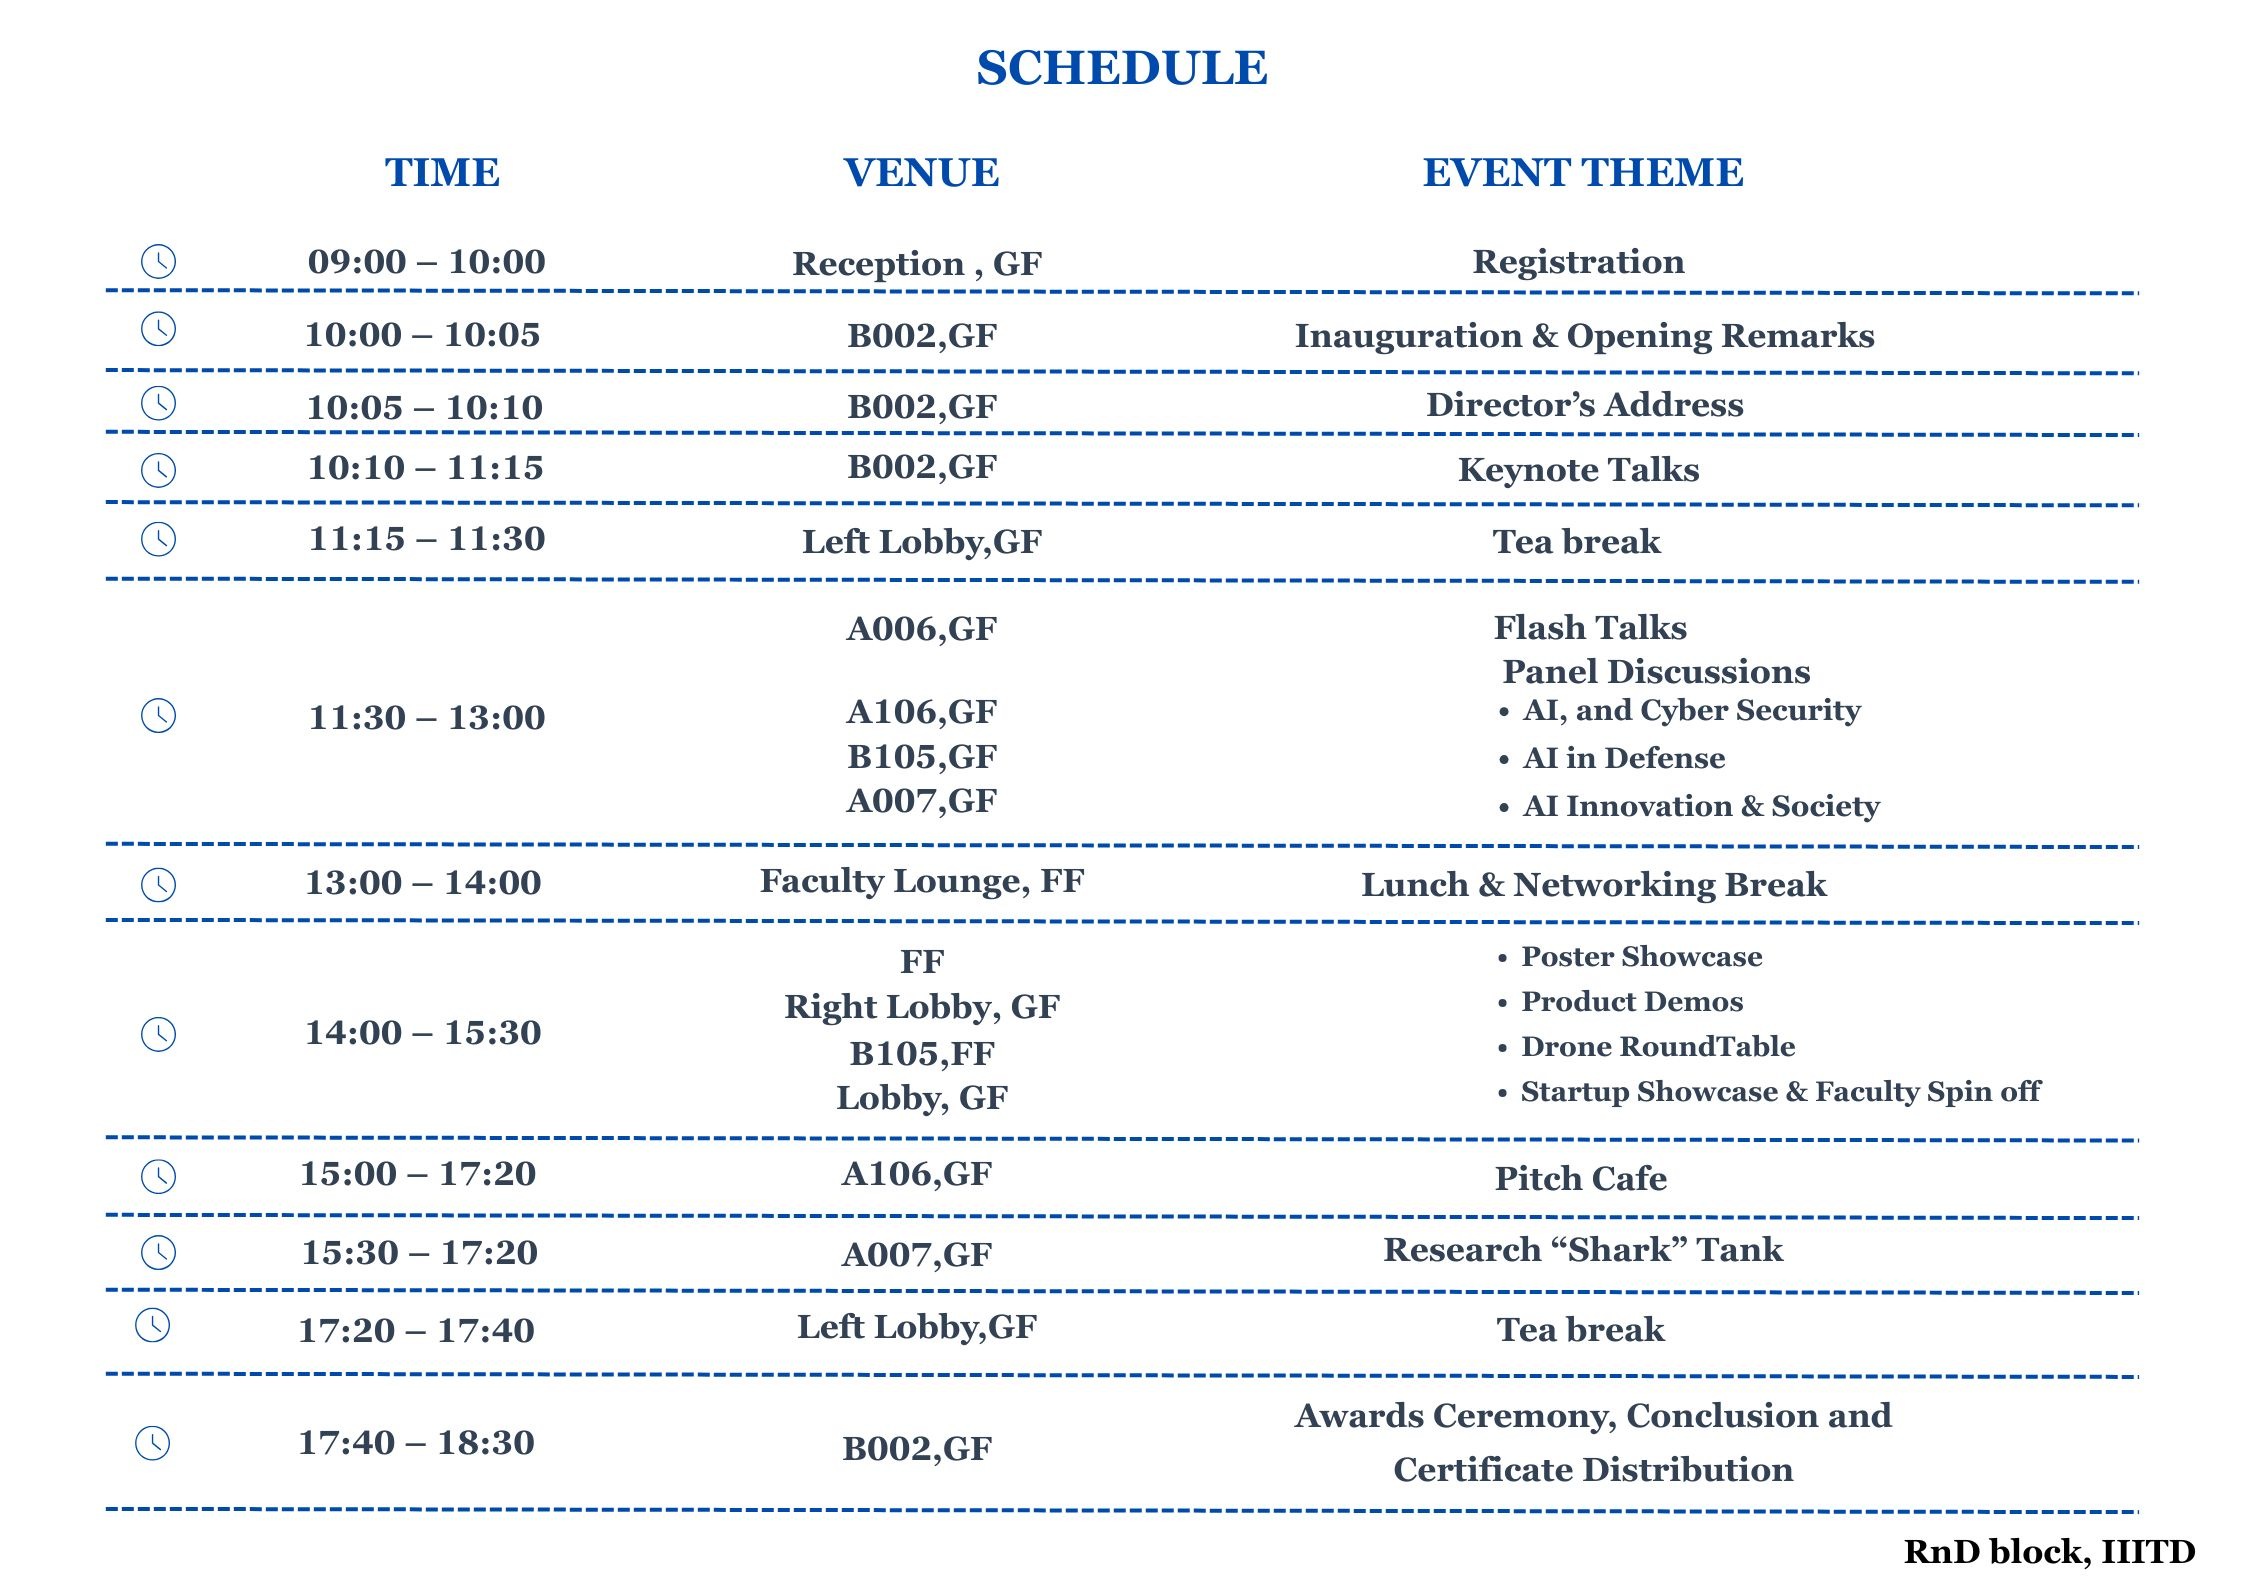
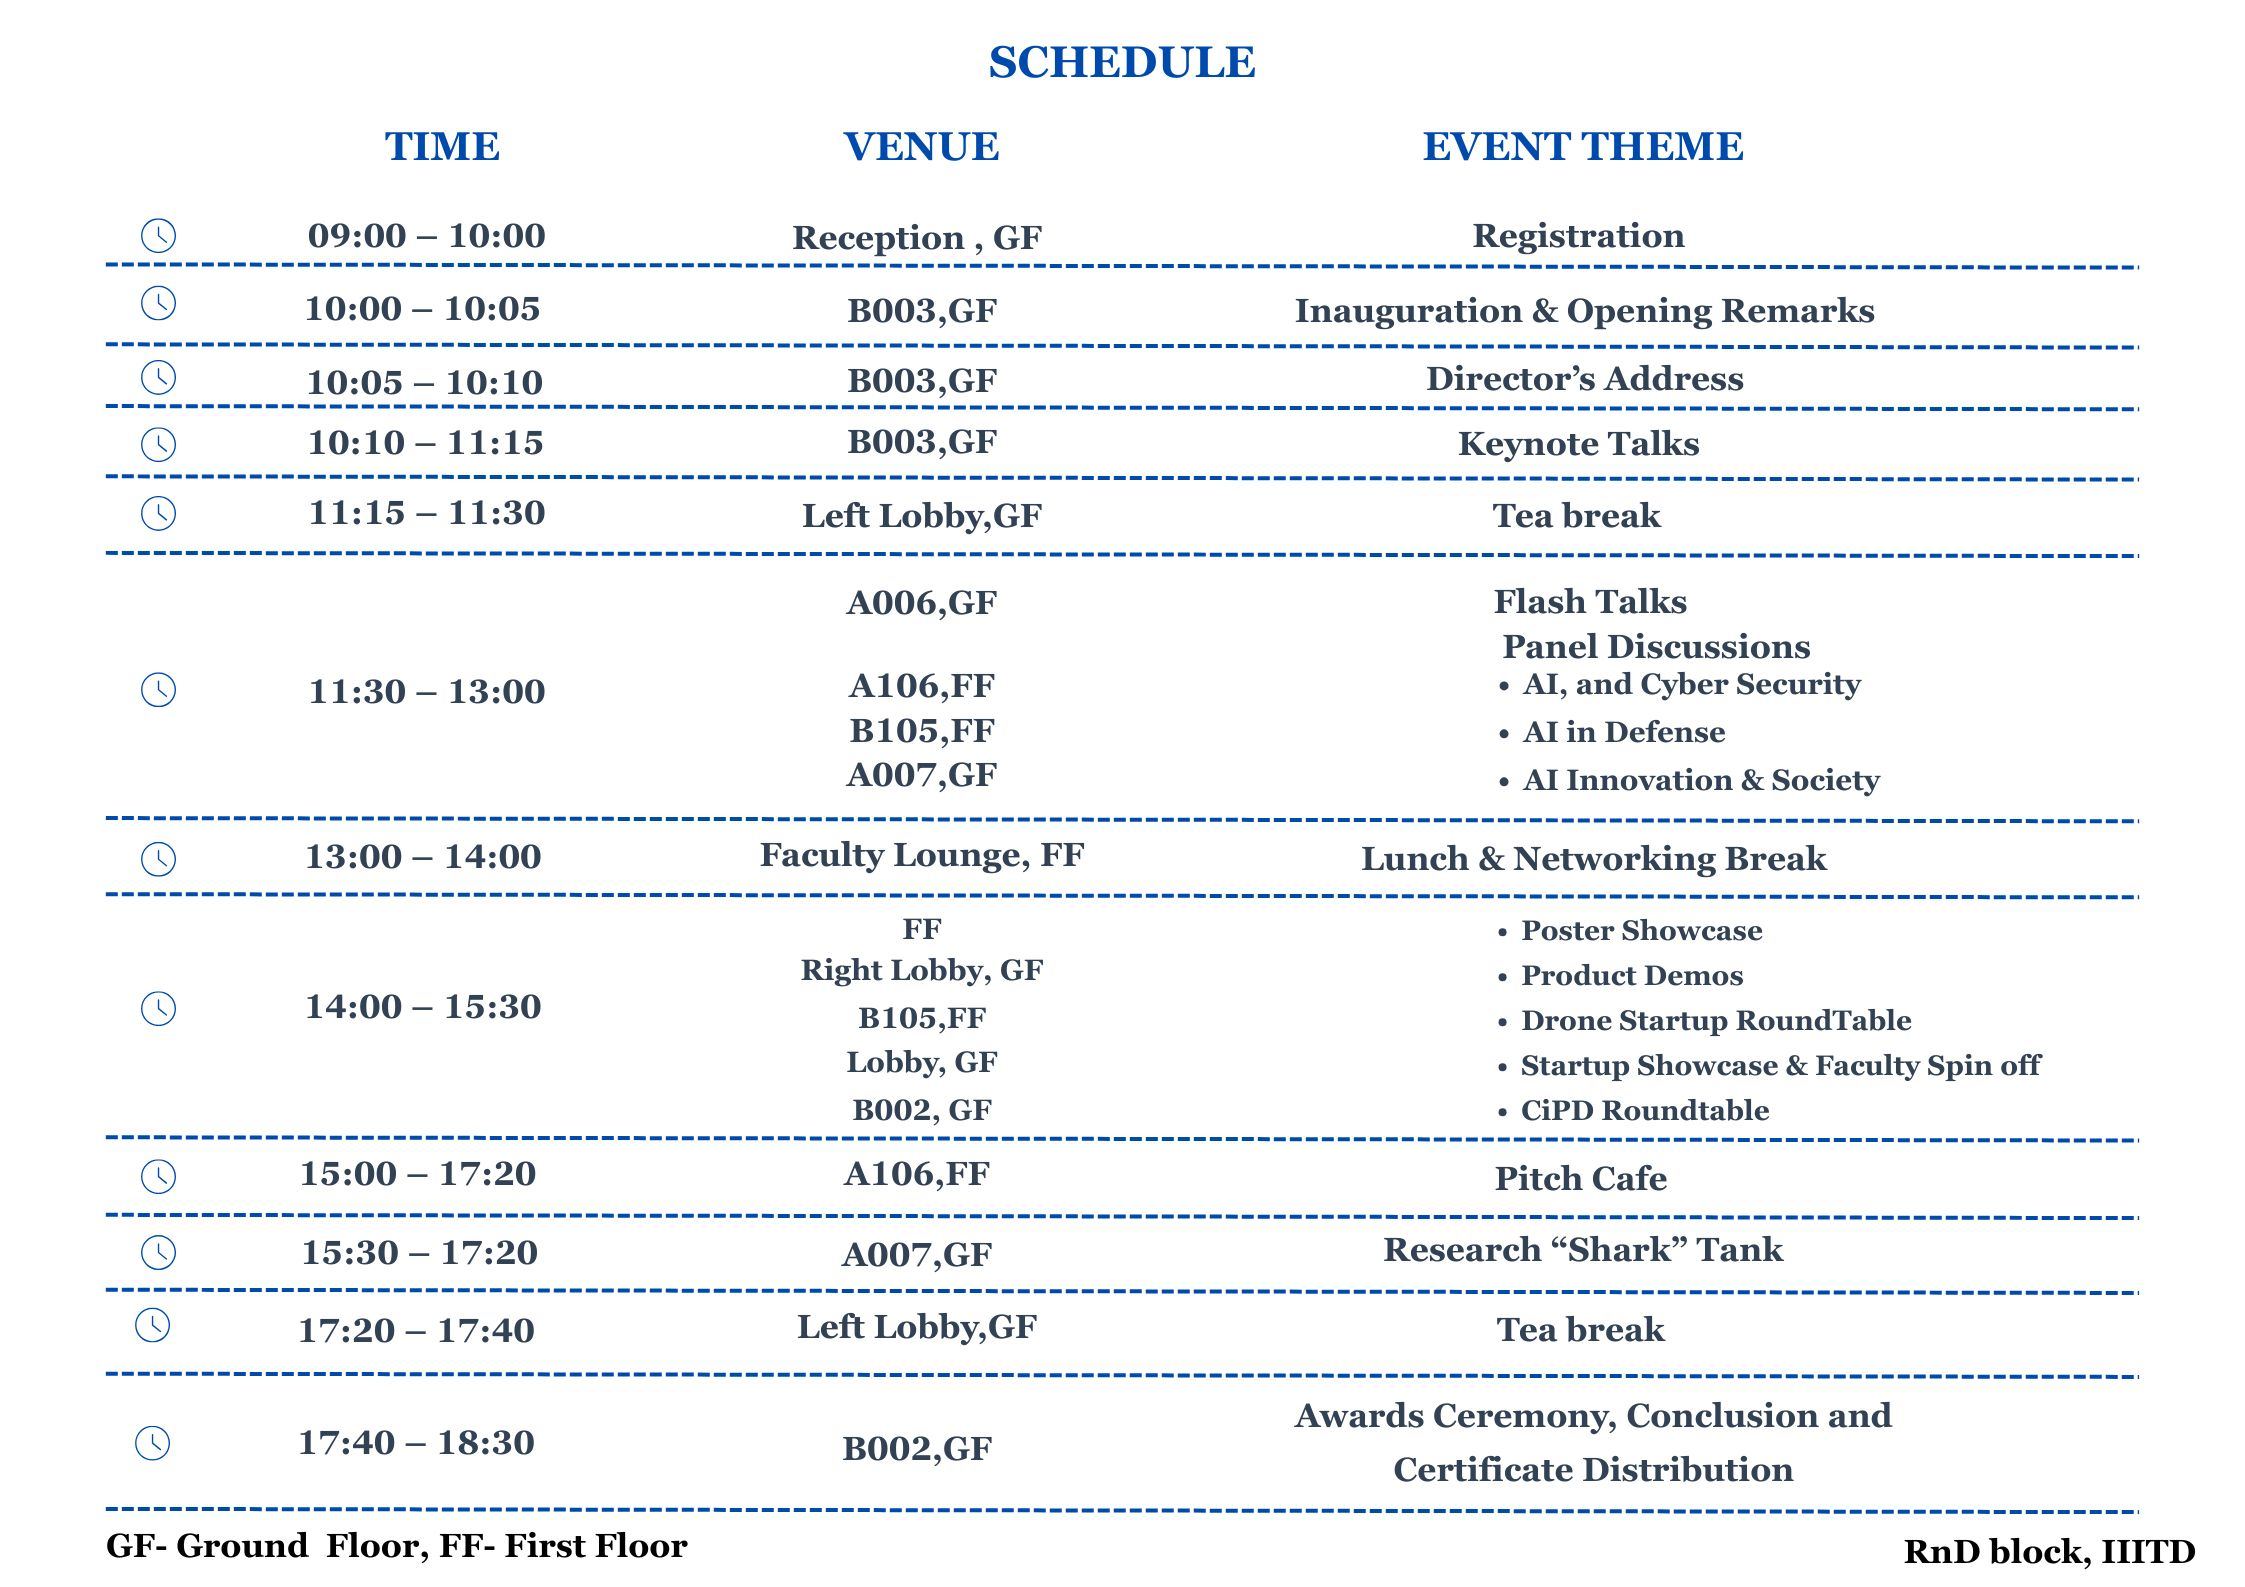
showcase and schedule updated

diff --git a/src/components/Schedule.tsx b/src/components/Schedule.tsx
@@ -1,162 +1,13 @@
-import { Clock } from "lucide-react";
-
 const EventSchedule = () => {
-  const scheduleData = [
-    {
-      time: "09:00 – 10:00",
-      event: "Registration",
-    },
-    {
-      time: "10:00 – 10:05",
-      event: "Inauguration & Opening Remarks",
-    },
-    {
-      time: "10:05 – 10:10",
-      event: "Director's Address",
-    },
-    {
-      time: "10:10 – 11:15",
-      event: "Keynote Talks",
-    },
-    {
-      time: "11:15 – 11:30",
-      event: "Tea break",
-    },
-    {
-      time: "11:30 – 13:00",
-      event: "Flash Talks",
-      panels: ["AI and Cyber Security", "AI in Defense", "AI Innovation & Society"],
-    },
-    {
-      time: "13:00 – 14:00",
-      event: "Lunch & Networking Break",
-    },
-    {
-      time: "14:00 – 15:30",
-      event: "Multiple Sessions",
-      sessions: ["Poster Showcase", "Product Demos", "Startup Showcase"],
-      additional: ["Drone RoundTable", "Fireside Chat - AI & Product Development"],
-    },
-    {
-      time: "15:00 – 17:20",
-      event: "Pitch Cafe",
-    },
-    {
-      time: "15:30 – 17:20",
-      event: "Research \"Shark\" Tank",
-    },
-    {
-      time: "17:20 – 17:40",
-      event: "Tea break",
-    },
-    {
-      time: "17:40 – 18:30",
-      event: "Awards Ceremony, Conclusion and Certificate Distribution",
-    },
-  ];
-
   return (
-    <div className="max-w-6xl mx-auto p-6 bg-gray-50 font-sans">
-      {/* Header */}
-      <div className="text-center mb-12">
-        <h1 className="text-4xl font-light text-gray-600 tracking-widest uppercase">
-          Schedule
-        </h1>
+    <section id="showcases" className="pb-20 lg:pb-32 bg-white/50 backdrop-blur-sm relative z-10">
+      <div className="max-w-7xl mx-auto px-4 sm:px-6 lg:px-8">
+        {/* Schedule Preview */}
+        <div id="schedule" className="bg-white/90 backdrop-blur-sm rounded-3xl p-8 lg:p-12 shadow-xl border border-slate-200/50">
+          <img src = "/riise2025/schedule.jpg" />
+        </div>
       </div>
-
-      {/* Schedule Table */}
-      <table className="w-full border-collapse bg-white rounded-xl shadow-md overflow-hidden">
-        <thead className="bg-gray-600 text-white">
-          <tr>
-            <th className="w-52 py-6 px-8 text-left text-lg font-semibold uppercase tracking-wide">
-              Time
-            </th>
-            <th className="py-6 px-8 text-center text-lg font-semibold uppercase tracking-wide">
-              Event Details
-            </th>
-          </tr>
-        </thead>
-        <tbody>
-          {scheduleData.map((item, index) => (
-            <tr
-              key={index}
-              className="border-b-2 border-dashed border-gray-300 hover:bg-gray-100 last:border-none transition-colors"
-            >
-              {/* Time Cell */}
-              <td className="py-6 px-8 font-semibold text-gray-800 align-top flex items-center">
-                <Clock size={18} className="text-gray-400 mr-3" />
-                <span className="text-base">{item.time}</span>
-              </td>
-
-              {/* Event Cell */}
-              <td className="py-6 px-8 align-top">
-                <div
-                  className={`text-lg font-semibold mb-2 ${
-                    item.event.toLowerCase().includes("tea break") ||
-                    item.event.toLowerCase().includes("lunch")
-                      ? "text-green-500"
-                      : "text-gray-800"
-                  }`}
-                >
-                  {item.event}
-                </div>
-
-                {/* Panels */}
-                {item.panels && (
-                  <div className="mt-3">
-                    <div className="text-sm font-semibold text-gray-500 mb-2">
-                      Panel Discussions
-                    </div>
-                    <ul className="list-none space-y-1">
-                      {item.panels.map((panel, panelIndex) => (
-                        <li
-                          key={panelIndex}
-                          className="pl-5 relative text-gray-500 before:content-['•'] before:absolute before:left-0 before:text-blue-500 before:font-bold"
-                        >
-                          {panel}
-                        </li>
-                      ))}
-                    </ul>
-                  </div>
-                )}
-
-                {/* Sessions */}
-                {item.sessions && (
-                  <div className="grid grid-cols-1 md:grid-cols-2 gap-6 mt-4">
-                    <div>
-                      <ul className="list-none space-y-1">
-                        {item.sessions.map((session, sessionIndex) => (
-                          <li
-                            key={sessionIndex}
-                            className="pl-5 relative text-gray-500 text-sm before:content-['•'] before:absolute before:left-0 before:text-blue-500 before:font-bold"
-                          >
-                            {session}
-                          </li>
-                        ))}
-                      </ul>
-                    </div>
-                    {item.additional && (
-                      <div>
-                        <ul className="list-none space-y-1">
-                          {item.additional.map((add, addIndex) => (
-                            <li
-                              key={addIndex}
-                              className="pl-5 relative text-gray-500 text-sm before:content-['•'] before:absolute before:left-0 before:text-blue-500 before:font-bold"
-                            >
-                              {add}
-                            </li>
-                          ))}
-                        </ul>
-                      </div>
-                    )}
-                  </div>
-                )}
-              </td>
-            </tr>
-          ))}
-        </tbody>
-      </table>
-    </div>
+    </section>
   );
 };
 

diff --git a/src/components/Showcases.tsx b/src/components/Showcases.tsx
@@ -1,52 +1,44 @@
 import React from 'react';
-import { FileText, Package, Rocket, Lightbulb, ArrowRight, Calendar } from 'lucide-react';
+import { FileText, Package, Rocket, Lightbulb, Eye } from 'lucide-react';
 
 const Showcases: React.FC = () => {
   const showcases = [
     {
-      icon: FileText,
-      title: "Call for Posters",
-      description: "Submit your research findings and innovative ideas through compelling poster presentations.",
-      details: ["Research Posters", "Innovation Displays", "Interactive Demos"],
-      deadline: "September 8, 2025",
-      gradient: "from-blue-600 to-blue-800",
-      bgColor: "bg-blue-50",
-      borderColor: "border-blue-200",
-      link: "https://riise.accubate.app/ext/form/8510/1/apply"
+      icon: Lightbulb,
+      title: "Research Tank",
+      description: "Watch researchers pitch their bold ideas to panels in a Shark Tank-style session full of energy and insights.",
+      details: ["5-Minute Pitches", "Expert Feedback", "Funding Opportunities"],
+      gradient: "from-cyan-600 to-cyan-800",
+      bgColor: "bg-cyan-50",
+      borderColor: "border-cyan-200",
     },
     {
       icon: Package,
       title: "Product Showcase",
-      description: "Demonstrate cutting-edge products and prototypes that emerged from research initiatives.",
-      details: ["Live Demonstrations", "Technical Presentations", "User Experience"],
-      deadline: "September 8, 2025",
+      description: "Discover cutting-edge products and prototypes that bring research ideas into real-world impact.",
+      details: ["Live Demonstrations", "Technical Insights", "User Experience"],
       gradient: "from-emerald-600 to-emerald-800",
       bgColor: "bg-emerald-50",
       borderColor: "border-emerald-200",
-      link: "https://riise.accubate.app/ext/form/8345/1/apply"
     },
     {
       icon: Rocket,
       title: "Startup Showcase",
-      description: "Present your startup journey, business model, and growth potential to investors and mentors.",
-      details: ["Pitch Presentations", "Business Models", "Investment Opportunities"],
-      deadline: "September 8, 2025",
+      description: "Meet startups and founders who are transforming their research into scalable ventures with real potential.",
+      details: ["Pitch Sessions", "Business Models", "Growth Journeys"],
       gradient: "from-purple-600 to-purple-800",
       bgColor: "bg-purple-50",
       borderColor: "border-purple-200",
-      link: "https://riise.accubate.app/ext/form/8576/1/apply"
     },
     {
-      icon: Lightbulb,
-      title: "Research Tank",
-      description: "Shark Tank-style competition where researchers pitch their innovations to expert panels.",
-      details: ["5-Minute Pitches", "Expert Evaluation", "Funding Opportunities"],
-      deadline: "September 8, 2025",
-      gradient: "from-cyan-600 to-cyan-800",
-      bgColor: "bg-cyan-50",
-      borderColor: "border-cyan-200",
-      link: "https://riise.accubate.app/ext/form/8477/1/apply"
-    }
+      icon: FileText,
+      title: "Posters & Demos",
+      description: "Explore innovative research findings and creative ideas through visually engaging posters and interactive demos.",
+      details: ["Research Posters", "Innovation Displays", "Interactive Demos"],
+      gradient: "from-blue-600 to-blue-800",
+      bgColor: "bg-blue-50",
+      borderColor: "border-blue-200",
+    },
   ];
 
   return (
@@ -54,11 +46,12 @@ const Showcases: React.FC = () => {
       <div className="max-w-7xl mx-auto px-4 sm:px-6 lg:px-8">
         <div className="text-center mb-16">
           <h2 className="text-4xl lg:text-5xl font-serif font-bold text-slate-800 mb-6">
-            Showcase Opportunities
+            Witness the Showcases
           </h2>
           <p className="text-xl text-slate-600 max-w-3xl mx-auto leading-relaxed">
-            Multiple platforms to present your research, innovations, and entrepreneurial ventures 
-            to a diverse audience of academics, industry experts, and investors.
+            Experience groundbreaking research, cutting-edge products, and bold startup ideas — 
+            all presented live at <strong>RIISE 2025</strong>. 
+            Join us for an inspiring day of innovation and technology in action.
           </p>
         </div>
 
@@ -91,29 +84,13 @@ const Showcases: React.FC = () => {
                   ))}
                 </div>
                 
-                <div className="flex items-center justify-between">
-                  <div className="text-sm text-slate-500">
-                    <Calendar className="w-4 h-4 inline mr-1" />
-                    Deadline: <span className="font-medium text-red-600">{showcase.deadline}</span>
-                  </div>
-                 <a
-                    href={showcase.link}
-                    target="_blank"
-                    rel="noopener noreferrer"
-                    className="bg-white text-blue-600 hover:bg-blue-600 hover:text-white px-6 py-2 rounded-lg font-semibold transition-all duration-300 transform hover:scale-105 flex items-center space-x-2 shadow-md"
-                  >
-                    <span>Submit</span>
-                    <ArrowRight className="w-4 h-4" />
-                  </a>
+                <div className="flex items-center text-blue-700 font-medium text-sm">
+                  <Eye className="w-4 h-4 mr-2" />
+                  Live at RIISE 2025 on September 13, 2025
                 </div>
               </div>
             );
           })}
-        </div>
-
-        {/* Schedule Preview */}
-        <div id="schedule" className="bg-white/90 backdrop-blur-sm rounded-3xl p-8 lg:p-12 shadow-xl border border-slate-200/50">
-          <img src = "/riise2025/schedule.jpg" />
         </div>
       </div>
     </section>
